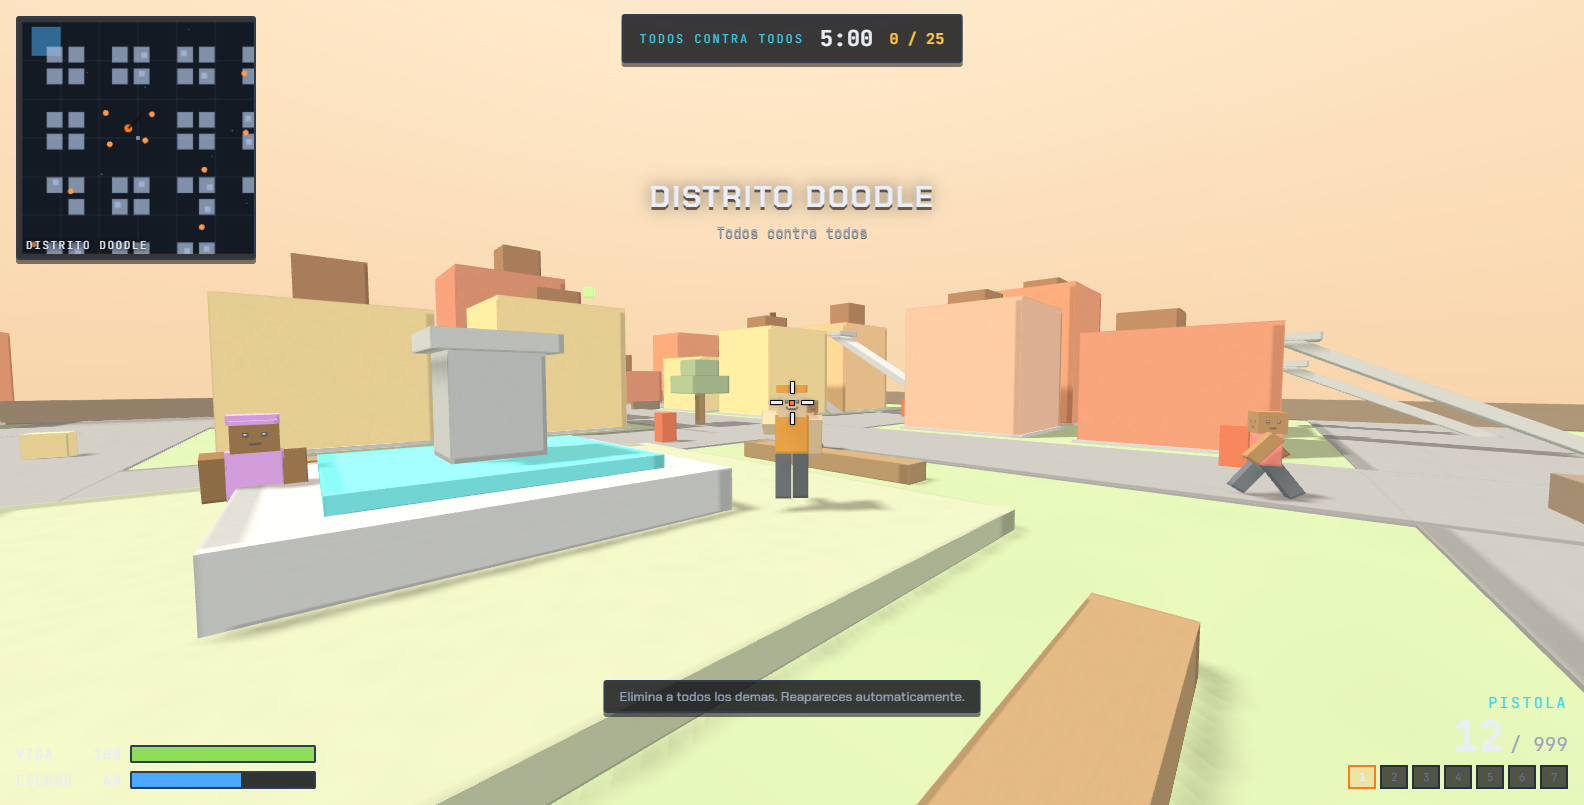
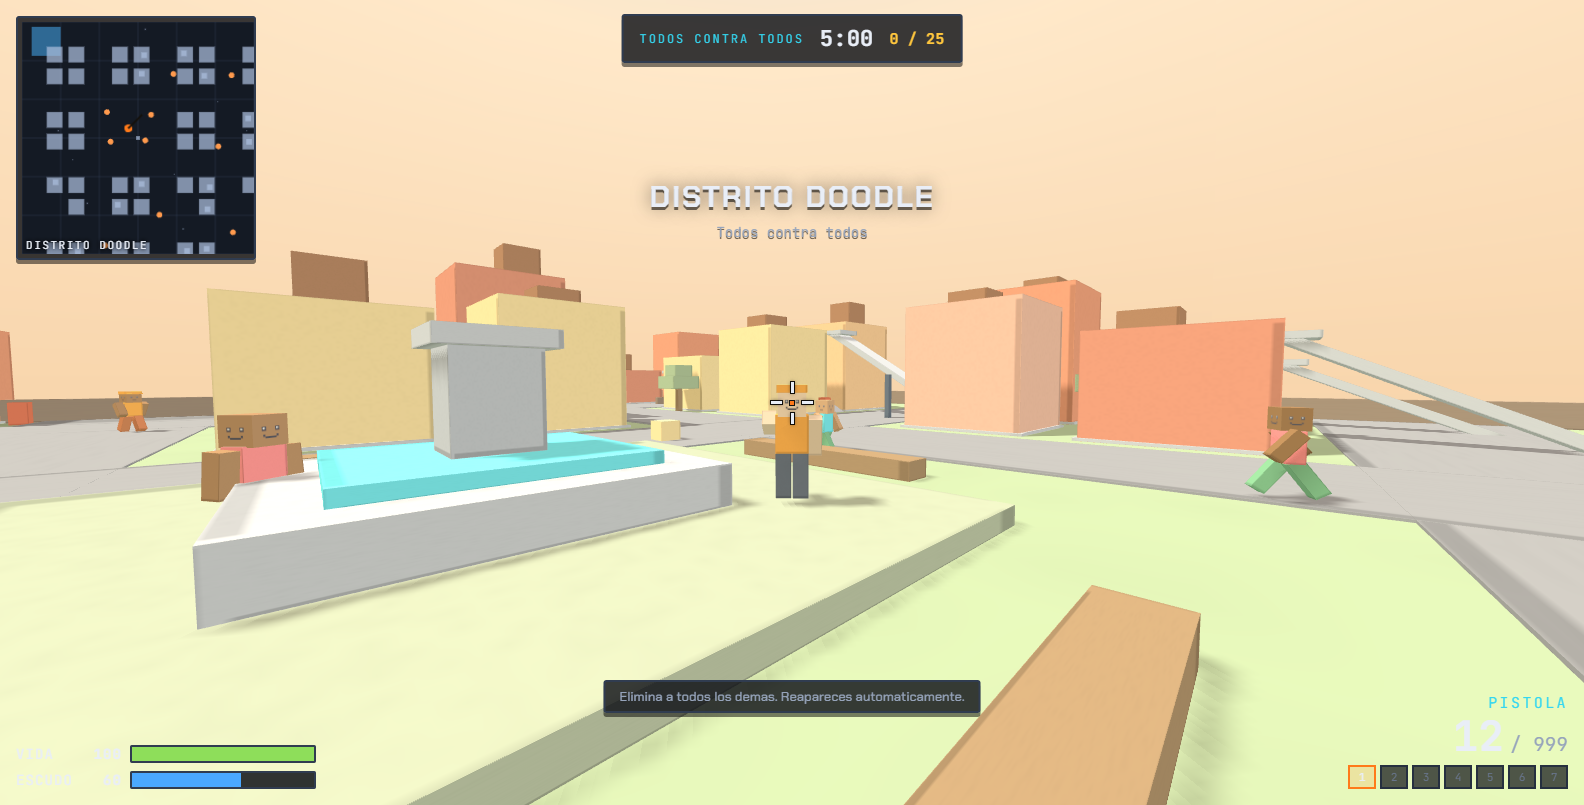
feat(v0.5.2): el corte de la katana se ve
Tajo por fases: amago arriba a la derecha, corte diagonal rapido y recuperacion, con el golpe entrando al llegar la hoja (0,17 s de 0,46 s). Se anade una estela visible: un arco claro barre la pantalla siguiendo el filo y se desvanece, de modo que el tajo se ve y no solo se nota. Silbido del filo mas definido, impactos visibles en cada enemigo alcanzado y, en tercera persona, el brazo tambien ejecuta el tajo.

diff --git a/src/game.js b/src/game.js
@@ -41,6 +41,28 @@
     return dir;
   }
 
+  /* Pose del tajo de katana: amago arriba-derecha, corte diagonal rapido y vuelta */
+  var KATANA_KEYS = [
+    { t: 0.00, rx: -0.30, ry: 0.40, rz: 0.30, px: 0.34, py: -0.30, pz: -0.58 },
+    { t: 0.20, rx: -0.85, ry: 0.80, rz: 0.60, px: 0.44, py: -0.20, pz: -0.50 },
+    { t: 0.42, rx: 0.15, ry: 0.05, rz: 0.05, px: 0.24, py: -0.32, pz: -0.70 },
+    { t: 0.60, rx: 0.80, ry: -0.85, rz: -0.55, px: 0.02, py: -0.44, pz: -0.60 },
+    { t: 0.78, rx: 0.30, ry: -0.40, rz: -0.20, px: 0.20, py: -0.34, pz: -0.58 },
+    { t: 1.00, rx: -0.30, ry: 0.40, rz: 0.30, px: 0.34, py: -0.30, pz: -0.58 }
+  ];
+  function katanaPose(group, t) {
+    t = B.clamp(t, 0, 1);
+    var a = KATANA_KEYS[0], b = KATANA_KEYS[KATANA_KEYS.length - 1];
+    for (var i = 0; i < KATANA_KEYS.length - 1; i++) {
+      if (t >= KATANA_KEYS[i].t && t <= KATANA_KEYS[i + 1].t) { a = KATANA_KEYS[i]; b = KATANA_KEYS[i + 1]; break; }
+    }
+    var span = (b.t - a.t) || 1;
+    var k = (t - a.t) / span;
+    k = k * k * (3 - 2 * k);
+    group.position.set(a.px + (b.px - a.px) * k, a.py + (b.py - a.py) * k, a.pz + (b.pz - a.pz) * k);
+    group.rotation.set(a.rx + (b.rx - a.rx) * k, a.ry + (b.ry - a.ry) * k, a.rz + (b.rz - a.rz) * k);
+  }
+
   function Game() {
     this.scene = new THREE.Scene();
     this.camera = new THREE.PerspectiveCamera(80, 1, 0.06, 700);
@@ -238,6 +260,17 @@
 
     this.muzzleLight = new THREE.PointLight("#ffd27a", 0, 9);
     this.viewScene.add(this.muzzleLight);
+
+    // Estela del corte: media luna que barre con el filo y se desvanece
+    if (this.slashTrail && this.slashTrail.parent) this.slashTrail.parent.remove(this.slashTrail);
+    this.slashTrail = new THREE.Mesh(
+      new THREE.RingGeometry(0.1, 0.185, 26, 1, 0, 2.2),
+      new THREE.MeshBasicMaterial({ color: "#f2ffff", transparent: true, opacity: 0, side: THREE.DoubleSide, depthWrite: false })
+    );
+    this.slashTrail.position.set(0.13, -0.15, -0.6);
+    this.slashTrail.rotation.x = -0.3;
+    this.slashTrail.visible = false;
+    this.viewScene.add(this.slashTrail);
 
     this.setWeapon(this.player.weapon, true);
   };
@@ -503,6 +536,7 @@
       if (dot < cosArc) continue;
       var falloff = 1 - 0.35 * (horiz / def.range);
       this.dealDamage(e, def.damage * falloff, shooter, { weapon: def.name });
+      this.spawnImpact(new THREE.Vector3(e.pos.x, e.pos.y + 1.15, e.pos.z), "#ffe6a0");
       hits++;
       if (hits >= maxTargets) break;
     }
@@ -846,6 +880,16 @@
     var sp = Math.hypot(p.vel.x, p.vel.z) / p.moveSpeed;
     B.Avatar.update(av, dt, sp, p.grounded);
     B.Avatar.aim(av, p.pitch);
+    // En tercera persona tambien se ve el tajo
+    var wdef = B.Weapon.byId(p.weapon);
+    if (wdef.kind === "melee" && this.vmSwing > 0) {
+      var st = 1 - this.vmSwing / (wdef.swingTime || 0.46);
+      var arc = Math.sin(st * Math.PI);
+      av.armR.rotation.x = -1.5 + arc * 2.1;
+      av.armR.rotation.z = 0.5 - st * 1.2;
+    } else {
+      av.armR.rotation.z = 0;
+    }
   };
 
   Game.prototype.handleFiring = function (dt) {
@@ -1478,6 +1522,26 @@
 
     this.vmRoot.position.set(tx, ty, tz);
     this.vmRoot.rotation.set(reloadDip * 1.4 + this.vmKick * 0.9 - slash * 0.28, ads * 0.02 + _swayY * 0.5 + swYaw, swRoll);
+
+    // La katana se mueve con pose de tajo (amago, corte y vuelta)
+    if (swDef.kind === "melee") {
+      katanaPose(this.vmRoot, this.vmSwing > 0 ? swingT : 0);
+    }
+
+    // Estela visible del corte
+    if (this.slashTrail) {
+      var elapsed = this.vmSwing > 0 ? (swTime - this.vmSwing) : -1;
+      var t0 = swTime * 0.14, t1 = swTime * 0.72;
+      if (elapsed >= t0 && elapsed <= t1) {
+        var p = (elapsed - t0) / (t1 - t0);
+        this.slashTrail.visible = true;
+        this.slashTrail.material.opacity = Math.sin((1 - p) * Math.PI * 0.5) * 0.92;
+        this.slashTrail.rotation.z = 1.0 - p * 2.2;
+        this.slashTrail.scale.setScalar(0.85 + p * 0.35);
+      } else {
+        this.slashTrail.visible = false;
+      }
+    }
 
     if (this.muzzleTimer > 0) {
       this.muzzleTimer -= dt;

diff --git a/tools/screenshot.js b/tools/screenshot.js
@@ -202,7 +202,7 @@ Client.prototype.shot = function (file, quality) {
     shots.push({ name: 'captura-supervivencia.png', size: await client.shot(path.join(OUT, 'captura-supervivencia.png')) });
 
     /* 4. Vista interior con arma y reticula */
-    await goto('http://127.0.0.1:' + PORT + '/index.html?auto=ctf&map=templo&bots=8', 4500,
+    await goto('http://127.0.0.1:' + PORT + '/index.html?auto=ctf&map=templo&bots=5', 4500,
       'window.BLITZ.debug && window.BLITZ.debug.game.state === "playing"');
     await client.evaluate('(function(){var g=window.BLITZ.debug.game,p=g.player;' +
       'p.alive=true;p.invuln=99999;p.health=64;p.armor=50;p.thirdPerson=false;' +
@@ -210,10 +210,15 @@ Client.prototype.shot = function (file, quality) {
     await sleep(1200);
     shots.push({ name: 'captura-primera-persona.png', size: await client.shot(path.join(OUT, 'captura-primera-persona.png')) });
 
-    /* 4b. Katana: modelo y pose de barrido */
+    /* 4b. Katana: tajo congelado a mitad del corte (se ve el corte) */
     await client.evaluate('(function(){var g=window.BLITZ.debug.game;g.setWeapon("katana");window.BLITZ.Input.mouse=function(b){return b===0;};var p=g.player;if(!window.__keep){window.__keep=setInterval(function(){p.alive=true;p.invuln=99999;p.health=100;},200);}p.thirdPerson=false;return 1;})()');
-    await sleep(1800);
+    await sleep(1200);
+    var trailInfo = await client.evaluate('(function(){var g=window.BLITZ.debug.game;if(g.state!=="playing")return JSON.stringify({estado:g.state});g.vmSwing=0.30;g.updateViewModel(0.016);g.render();var tr=g.slashTrail;var out={estado:g.state,vivo:g.player.alive,tercera:g.player.thirdPerson,arma:g.player.weapon,vmSwing:g.vmSwing,trail:!!tr,visible:tr?tr.visible:null,opacidad:tr?tr.material.opacity:null,rotZ:tr?tr.rotation.z:null,pos:tr?[tr.position.x,tr.position.y,tr.position.z]:null,vmRootVisible:g.vmRoot.visible,vmChildren:g.vmRoot.children.length};g.state="frozen";return JSON.stringify(out);})()');
+    console.log('  katana congelada: ' + JSON.stringify(trailInfo));
+    await sleep(600);
     shots.push({ name: 'captura-katana.png', size: await client.shot(path.join(OUT, 'captura-katana.png')) });
+    await client.evaluate('(function(){var d=window.BLITZ.debug;d.game.state="playing";d.game.vmSwing=0;d.game.updateViewModel(0.016);return 1;})()');
+    await sleep(300);
 
     /* 5. Francotirador con la mira puesta: zoom y reticula del visor */
     await client.evaluate('(function(){var g=window.BLITZ.debug.game;g.setWeapon("sniper");window.BLITZ.Input.mouse=function(b){return b===2;};var p=g.player;if(!window.__keep){window.__keep=setInterval(function(){p.alive=true;p.invuln=99999;p.health=100;},200);}p.thirdPerson=false;return 1;})()');

diff --git a/tools/simulate.js b/tools/simulate.js
@@ -232,6 +232,7 @@ function runMatch(label, config, seconds, opts) {
   var frames = Math.round(seconds / dt);
   var thrown = null;
   var kills = 0, deaths = 0, prevKills = 0;
+  var minZombieDist = Infinity;
 
   for (var f = 0; f < frames; f++) {
     if (opts.autoAim) {
@@ -261,6 +262,12 @@ function runMatch(label, config, seconds, opts) {
     var k = 0;
     for (var i = 0; i < game.entities.length; i++) k += game.entities[i].kills;
     if (k !== prevKills) { kills = k; prevKills = k; }
+    for (var zi = 0; zi < game.entities.length; zi++) {
+      var zz = game.entities[zi];
+      if (zz.kind === "zombie" && zz.alive) {
+        minZombieDist = Math.min(minZombieDist, B.dist(zz.pos.x, zz.pos.z, game.player.pos.x, game.player.pos.z));
+      }
+    }
     if (opts.verbose && f % (60 * 10) === 0) {
       var zs = game.entities.filter(function (e) { return e.kind === "zombie" && e.alive; });
       var minD = 1e9;
@@ -281,9 +288,11 @@ function runMatch(label, config, seconds, opts) {
     " pos=(" + player.pos.x.toFixed(1) + "," + player.pos.y.toFixed(1) + "," + player.pos.z.toFixed(1) + ")" +
     (game.finished ? " FIN" : ""));
   if (thrown) { console.log("        " + thrown.split("\n")[0]); errors.push(label + ": " + thrown); }
-  if (game.state === "playing" && !thrown && kills === 0) errors.push(label + ": no hubo ninguna baja en " + seconds + "s");
+  if (game.state === "playing" && !thrown && kills === 0 && minZombieDist > 4) {
+    errors.push(label + ": ni bajas ni acercamiento enemigo en " + seconds + "s");
+  }
   game.teardown();
-  return { game: game, thrown: thrown, kills: kills };
+  return { game: game, thrown: thrown, kills: kills, minZombieDist: minZombieDist };
 }
 
 console.log("BLOCKBURST - simulacion sin navegador\n");

diff --git a/src/audio.js b/src/audio.js
@@ -88,7 +88,12 @@
       else if (kind === "smg") { noise({ freq: 3200, to: 900, dur: 0.07, gain: 0.2, q: 2 }); tone({ freq: 420, to: 180, dur: 0.06, type: "square", gain: 0.14 }); }
       else { noise({ freq: 2600, to: 700, dur: 0.09, gain: 0.24, q: 1.6 }); tone({ freq: 340, to: 130, dur: 0.08, type: "square", gain: 0.16 }); }
     },
-    melee: function () { noise({ freq: 1800, to: 420, dur: 0.16, gain: 0.24, q: 0.8, filter: "highpass" }); },
+    melee: function () {
+      // Silbido del filo: barrido de ruido + brillo metalico
+      noise({ freq: 3000, to: 420, dur: 0.2, gain: 0.3, q: 0.6, filter: "highpass" });
+      tone({ freq: 1500, to: 950, dur: 0.1, type: "triangle", gain: 0.1, delay: 0.02 });
+      tone({ freq: 2600, to: 1900, dur: 0.14, type: "square", gain: 0.05, delay: 0.05 });
+    },
     reload: function () {
       tone({ freq: 300, to: 190, dur: 0.06, type: "square", gain: 0.16 });
       tone({ freq: 240, to: 150, dur: 0.07, type: "square", gain: 0.16, delay: 0.16 });

diff --git a/src/weapons.js b/src/weapons.js
@@ -40,9 +40,9 @@
     {
       id: "katana", slot: 6, name: "KATANA", short: "KAT", kind: "melee", color: "#f4f7ff", hud: "#f4f7ff",
       damage: 74, range: 2.7, arc: 1.8, sweep: true, maxTargets: 3,
-      swingTime: 0.36, hitAt: 0.14, lunge: 7.5,
+      swingTime: 0.46, hitAt: 0.17, lunge: 8,
       mag: 0, reserve: 0, reload: 0, recoil: 0, kick: 0.012,
-      rpm: 140, auto: true, sfx: "melee", headMul: 1.0
+      rpm: 120, auto: true, sfx: "melee", headMul: 1.0
     },
     {
       id: "rocket", slot: 7, name: "LANZACOHETES", short: "RCK", kind: "projectile", color: "#ff7a1a", hud: "#ff7a1a",

diff --git a/src/main.js b/src/main.js
@@ -2,7 +2,7 @@
 (function () {
   'use strict';
   var B = (window.BLITZ = window.BLITZ || {});
-  B.VERSION = "0.5.1";
+  B.VERSION = "0.5.2";
 
   var DIFFS = [
     { id: "facil", label: "Facil" },

diff --git a/CHANGELOG.md b/CHANGELOG.md
@@ -1,5 +1,15 @@
 # Historial de cambios
 
+## v0.5.2 - El corte de la katana se ve
+
+- **Tajo por fases**: amago arriba a la derecha, corte diagonal rapido y recuperacion. El
+  golpe entra cuando llega la hoja (a los 0,17 s de un tajo de 0,46 s), no al pulsar.
+- **Estela visible del corte**: un arco claro barre la pantalla siguiendo el filo y se
+  desvanece, de modo que el tajo **se ve**, no solo se nota.
+- **Silbido del filo** mas definido (barrido de ruido mas brillo metalico).
+- **Impactos visibles** en cada enemigo alcanzado por el barrido.
+- En **tercera persona** el brazo tambien ejecuta el tajo, asi que se ve desde fuera.
+
 ## v0.5.1 - Ajustes que destaparon las pruebas
 
 Al ejecutar la bateria completa varias veces seguidas, las comprobaciones automaticas
